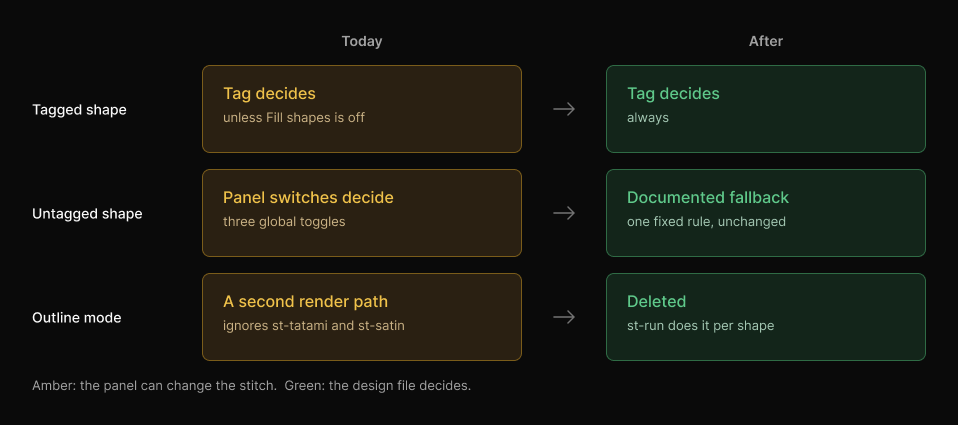
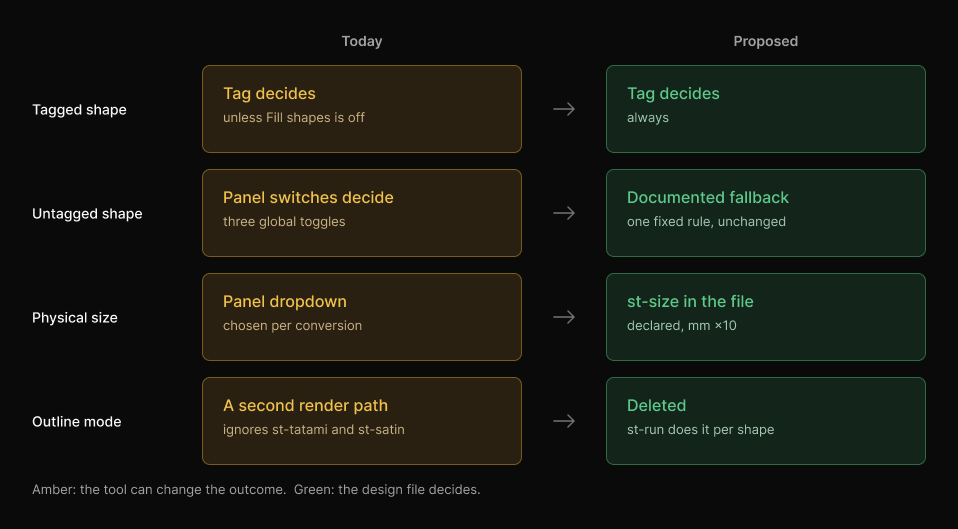
feat(openspec): fold document-declared size into the change (03.1)
The founder settled that the document dictates physical size, and that
this is an iteration on the proposal rather than a follow-on change. So
Design size leaves the panel too, declared instead by an st-size tag
carrying a w parameter in mm x10, with real SVG physical units honoured
where a tool emits them and 63.5 mm kept as the documented fallback.

This is the one genuinely new capability in the change: the converter
reads no document size at all today, scaling artwork to fill whatever the
panel says and discarding the file's own dimensions.

New spec document-declared-size (3 requirements). untagged-fallback's
invariance claim drops its "at a given design size" qualifier, because
the last panel control that changed output is now gone. Figma round 03.1
shows the panel with no legacy controls; the decision-flow diagram gains
a physical-size row. Nothing is approved — 02, 02.1 and 03.1 are all open
rounds.

diff --git a/openspec/changes/retire-umbrella-switches/proposal.md b/openspec/changes/retire-umbrella-switches/proposal.md
@@ -13,6 +13,11 @@
 > control angle, stitch, density, etc, from the path groupings here"
 > — founder, 2026-09-16, on the remaining fill parameters, pointing at
 > the sew-order list
+>
+> "so this now allows me to make decisions on the size issue - lets let
+> document dictate size not the tool. we might think about the ability
+> to translate or resize from the tool but not today." — founder,
+> 2026-09-17
 
 Founding record: `experiments/svg-to-stitch/docs/intent.md`; authoring
 contract: `experiments/svg-to-stitch/docs/stitch-authoring.md`.
@@ -25,13 +30,11 @@ contract: `experiments/svg-to-stitch/docs/stitch-authoring.md`.
 - **Job:** Drop a prepped SVG in and get the stitches the design asks
   for, without having to notice, remember, or re-set three global
   toggles that can silently contradict every tag in the file.
-- **Done when:** The panel carries no all-or-nothing stitch switch. At a
-  given design size, a file sews the same stitches however the panel was
-  last left; an untagged shape sews by the documented fallback, and the
-  only way to change one shape's stitch type is to say so in the design
-  file. Physical size stays a per-conversion panel choice — the contract
-  settled that deliberately ("No size tags") — and **Fabric** changes
-  only the preview backdrop.
+- **Done when:** The panel carries no control that changes the sewn
+  output. A file converts to the same plan however the panel was last
+  left: stitch type comes from its tags or the documented fallback, and
+  physical size comes from an `st-size` tag or the documented default.
+  **Fabric** remains, and changes only the preview backdrop.
 - **Not doing:** Changing the heuristics themselves — the untagged
   fallback keeps today's behaviour exactly. **Fill angle** and **Fill
   density** are _hidden_, not deleted: the converter keeps both options
@@ -60,11 +63,17 @@ arguing, and the switch won quietly. The authoring contract already
 names the destination: the heuristic decision tree "becomes the
 **untagged fallback** … Tagged shapes bypass it entirely."
 
-**Nothing here is a new capability.** Every replacement already ships and
-is tested. What the change produces is a guarantee and a deletion: stitch
-type becomes a property of the file rather than of panel state, and
-outline mode — the one render path that still overrides an explicit
-declaration — goes away.
+**Most of this is not new capability.** Every stitch-type replacement
+already ships and is tested, so removing the switches produces a
+guarantee and a deletion: stitch type becomes a property of the file
+rather than of panel state, and outline mode — the one render path that
+still overrides an explicit declaration — goes away.
+
+**Size is the exception, and it is genuinely new.** The converter reads
+no document size at all today: `bounds.span / targetWidthMm` scales the
+drawn artwork to fill whatever the panel says, discarding the file's own
+dimensions and any margin around the design. Declaring size in the file
+is the one capability being built here.
 
 ![What decides a shape's stitch, today versus after](assets/decision-flow.png)
 
@@ -103,6 +112,15 @@ than deleted.
 - **Fill angle** and **Fill density** leave the panel too, but only as
   controls: the options stay, defaulted to 45° and 0.4 mm. A file that
   wants something else says so with `a`/`d`.
+- **Design size** leaves the panel. Physical size is declared in the file
+  by an `st-size` tag carrying a `w` parameter in mm ×10 —
+  `patch st-size w635` is 63.5 mm — and real SVG physical units
+  (`width="63.5mm"`) are honoured where a tool emits them. An untagged
+  file keeps the 63.5 mm default as its documented fallback, so
+  un-prepped art still converts.
+- Size needs no replacement control: the **DESIGN** section already
+  reports the output size, which is the right treatment once size is an
+  outcome of the file rather than an input to the tool.
 - The authoring contract's "What this replaces, and when" section moves
   from future tense to present.
 
@@ -113,6 +131,10 @@ than deleted.
 - `untagged-fallback`: the documented rule for a shape that declares
   nothing — what a bought or un-prepped file sews, stated once, with no
   global control able to change it.
+- `document-declared-size`: physical size read from the design file —
+  an `st-size` tag, or real SVG physical units — instead of chosen in
+  the panel. This one is new behaviour, not a renaming of existing
+  behaviour.
 
 ### Modified Capabilities
 
@@ -123,8 +145,13 @@ than deleted.
 ## Impact
 
 - `app/svg-to-stitch/page.tsx`: three `Switch` rows and their state
-  removed; the **Fill angle** and **Fill density** selects hidden, their
-  values kept as the converter defaults; **Fabric** unchanged.
+  removed; the **Fill angle**, **Fill density** and **Design size**
+  selects removed from the panel; **Fabric** unchanged.
+- `lib/svg-to-stitch/svg-parse.ts`: `st-size` added to the directive
+  grammar; the existing CSS length parser (which already carries an `mm`
+  factor for `stroke-width`) applied to the root `width`/`height`.
+- `lib/svg-to-stitch/convert.ts`: `targetWidthMm` becomes a default
+  rather than a caller's choice, overridden by a declared size.
 - `lib/svg-to-stitch/convert.ts`: `fillMode`, `satinFills`,
   `satinStrokes` options dropped; the `fillMode === "outline"` branch
   deleted; `rejectBrushOnFill` and `checkTagDensity` collapse back to a

diff --git a/openspec/changes/retire-umbrella-switches/design.md b/openspec/changes/retire-umbrella-switches/design.md
@@ -56,7 +56,7 @@ decision flow in `proposal.md`, built on Figma page `03 Decision flow`
 | Local variables     | `hub tokens` collection on `00 Components` — 11 colours converted from the oklch declarations in `app/globals.css`; panel and text fills are bound to them rather than hardcoded                                                                  |
 | Code Connect        | No mappings to update — no component is added, changed or renamed                                                                                                                                                                                 |
 | Breakpoints         | S · 480px / L · 1024px. One frame per state is sufficient: the panel is `width: 300; maxWidth: calc(100vw - 24px)`, so at 480px it is still 300px wide and renders identically. Only below 324px would it clamp, which is off the supported range |
-| Status              | Built 2026-09-17 (pages `00 Components` / `01 Current state` / `02 Proposed`) — awaiting founder approval                                                                                                                                         |
+| Status              | Built 2026-09-17 — **not approved**; three open proposal rounds                                                                                                                                                                                   |
 
 **File convention** (per `rules/figma.mdc`): numbered pages, and each
 later proposal iteration becomes a **new** page — `02.1 Proposed — <what
@@ -126,21 +126,23 @@ scroll). The frame reproduces the bug rather than quietly fixing it.
 4. **No new components.** Everything in the proposed frame already
    exists; the change is subtraction.
 
-### Where this lands
+### Latest round — `03.1`
 
-`02.2` is not in scope here, but it is worth seeing while reviewing
-`02.1`, because it shows what the panel becomes once size is declared in
-the file too: 968 px → 728 px → 655 px.
+Size moved into scope, so `03.1` is the current proposal, not a preview
+of a later one: 968 px → 728 px → 655 px.
 
-![Panel with no legacy controls](assets/proposed-v3-no-size-control.png)
+![Panel with no legacy controls](assets/proposed-03-1-panel.png)
 
 Everything left is either a fact read from the file — sew order, design
 stats, size — or a preview control that changes nothing about the
-stitches (**Fabric**). The panel stops being a place where stitch
-decisions are made and becomes a readout with an export button. Size
-needs no new affordance: the **DESIGN** section already reports it, which
-is the right treatment once it is an outcome of the document rather than
-an input to the tool.
+stitches (**Fabric**). The panel stops being a place where decisions are
+made and becomes a readout with an export button. Size needs no new
+affordance: the **DESIGN** section already reports it, which is the right
+treatment once it is an outcome of the document rather than an input to
+the tool.
+
+**Nothing in the file is approved.** `02 Proposed`, `02.1` and `03.1` are
+all open rounds.
 
 ## Risks / Trade-offs
 

diff --git a/openspec/changes/retire-umbrella-switches/specs/document-declared-size/spec.md b/openspec/changes/retire-umbrella-switches/specs/document-declared-size/spec.md
@@ -1,0 +1,68 @@
+# Spec: document-declared-size
+
+## Outcomes
+
+- **Who:** Stitchers who design a patch at a real physical size and
+  expect the file to carry that size, rather than re-picking it in the
+  tool on every conversion.
+- **Job:** Say once, in the design, how big the thing is — and have any
+  conversion of that file come out at that size.
+- **Done when:** A file declaring its size converts to that size with no
+  size control present in the panel; a file that declares nothing keeps
+  today's default.
+- **Not doing:** Translating or resizing artwork from the tool — parked
+  by the founder, "not today". No unit conventions inferred from bare
+  user units.
+
+## ADDED Requirements
+
+### Requirement: Size is declared in the design file
+
+A tagged layer states the design's physical width, and the conversion
+honours it.
+
+**Fails until:** an `st-size` tagged file converts to its declared width
+with no panel control involved.
+
+A layer tagged `st-size` with a `w` parameter (mm ×10) SHALL set the
+converted design's physical width.
+
+#### Scenario: A declared size survives the round trip
+
+- **WHEN** a user names the frame `patch st-size w635` and converts it
+- **THEN** the design converts at 63.5 mm, and the **Size** readout
+  reports it
+- **AND** converting the same file again produces the same size, with no
+  size control to set
+
+### Requirement: Undeclared files keep today's size
+
+A file that says nothing about size still converts.
+
+**Fails until:** an untagged file converts at 63.5 mm with no size
+control present.
+
+A file with no declared size SHALL convert at the documented 63.5 mm
+default.
+
+#### Scenario: Bought art still converts
+
+- **WHEN** a user converts an SVG with no `st-size` tag and no physical
+  units
+- **THEN** it converts at 63.5 mm, exactly as it does today
+
+### Requirement: Out-of-range sizes error loudly
+
+A size the machine cannot sew is refused by name, not quietly clamped.
+
+**Fails until:** a declared size outside 10–400 mm names the offending
+layer in the error banner.
+
+A declared size outside the supported 10–400 mm range SHALL fail the
+conversion, naming the layer and the value.
+
+#### Scenario: An impossible size is refused
+
+- **WHEN** a user tags a layer `st-size w5000` (500 mm) and converts it
+- **THEN** the conversion fails, the banner names the layer and the
+  value, and nothing is silently resized

diff --git a/openspec/changes/retire-umbrella-switches/specs/untagged-fallback/spec.md b/openspec/changes/retire-umbrella-switches/specs/untagged-fallback/spec.md
@@ -8,11 +8,11 @@
 - **Job:** Drop a prepped SVG in and get the stitches the design asks
   for, without having to notice, remember, or re-set global toggles that
   can silently contradict every tag in the file.
-- **Done when:** The panel carries no all-or-nothing stitch switch; at a
-  given design size a file sews the same stitches however the panel was
-  last left, and the only way to change one shape's stitch type is to
-  say so in the design file. Size stays a per-conversion panel choice
-  and **Fabric** is preview-only.
+- **Done when:** The panel carries no all-or-nothing stitch switch; a
+  file sews the same stitches however the panel was last left, and the
+  only way to change one shape's stitch type is to say so in the design
+  file. **Fabric** is preview-only. Physical size is covered by
+  `document-declared-size`.
 - **Not doing:** Changing the heuristics themselves; deleting the fill
   parameters (they are hidden, still tag-overridable); building the
   per-colour-block controls that replace them later.
@@ -57,21 +57,20 @@ strokes at or under 10 mm sew as satin.
 
 Changing one shape's stitch type means saying so in the file.
 
-**Fails until:** the same file, converted at the same design size from
-two different panel states, produces the same stitch plan.
+**Fails until:** the same file, converted from two different panel
+states, produces the same stitch plan.
 
 A declared tag SHALL determine that shape's stitch type, and no panel
 control SHALL change the stitch type of any shape.
 
 #### Scenario: Stitch type is reproducible from the file alone
 
-- **WHEN** the same SVG is converted twice at the same design size, in
-  two sessions with the panel otherwise left in different states
+- **WHEN** the same SVG is converted twice, in two sessions with the
+  panel left in different states
 - **THEN** both conversions produce the same stitch count, colour blocks
   and sew order
-- **AND** changing **Design size** still rescales the output, and
-  changing **Fabric** still changes only the preview backdrop — neither
-  alters which stitch any shape sews
+- **AND** the only panel control left, **Fabric**, changes the preview
+  backdrop and nothing about the stitches
 
 ### Requirement: Fill parameters stay declarable
 
